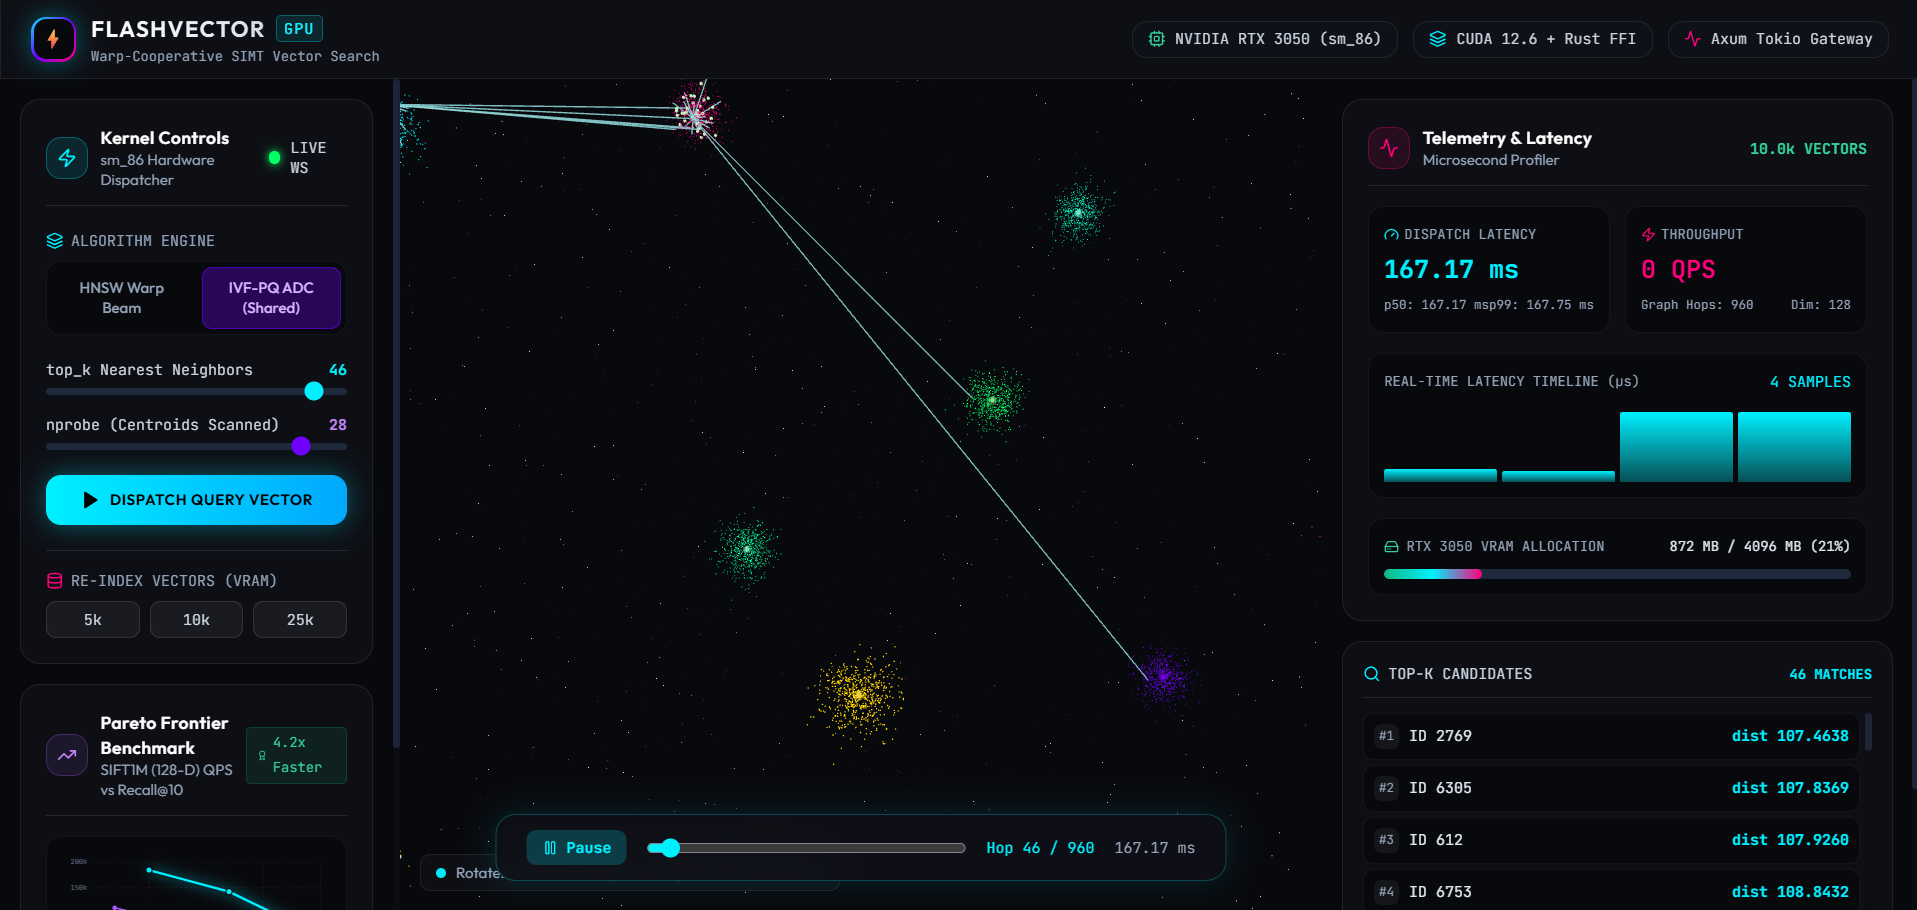
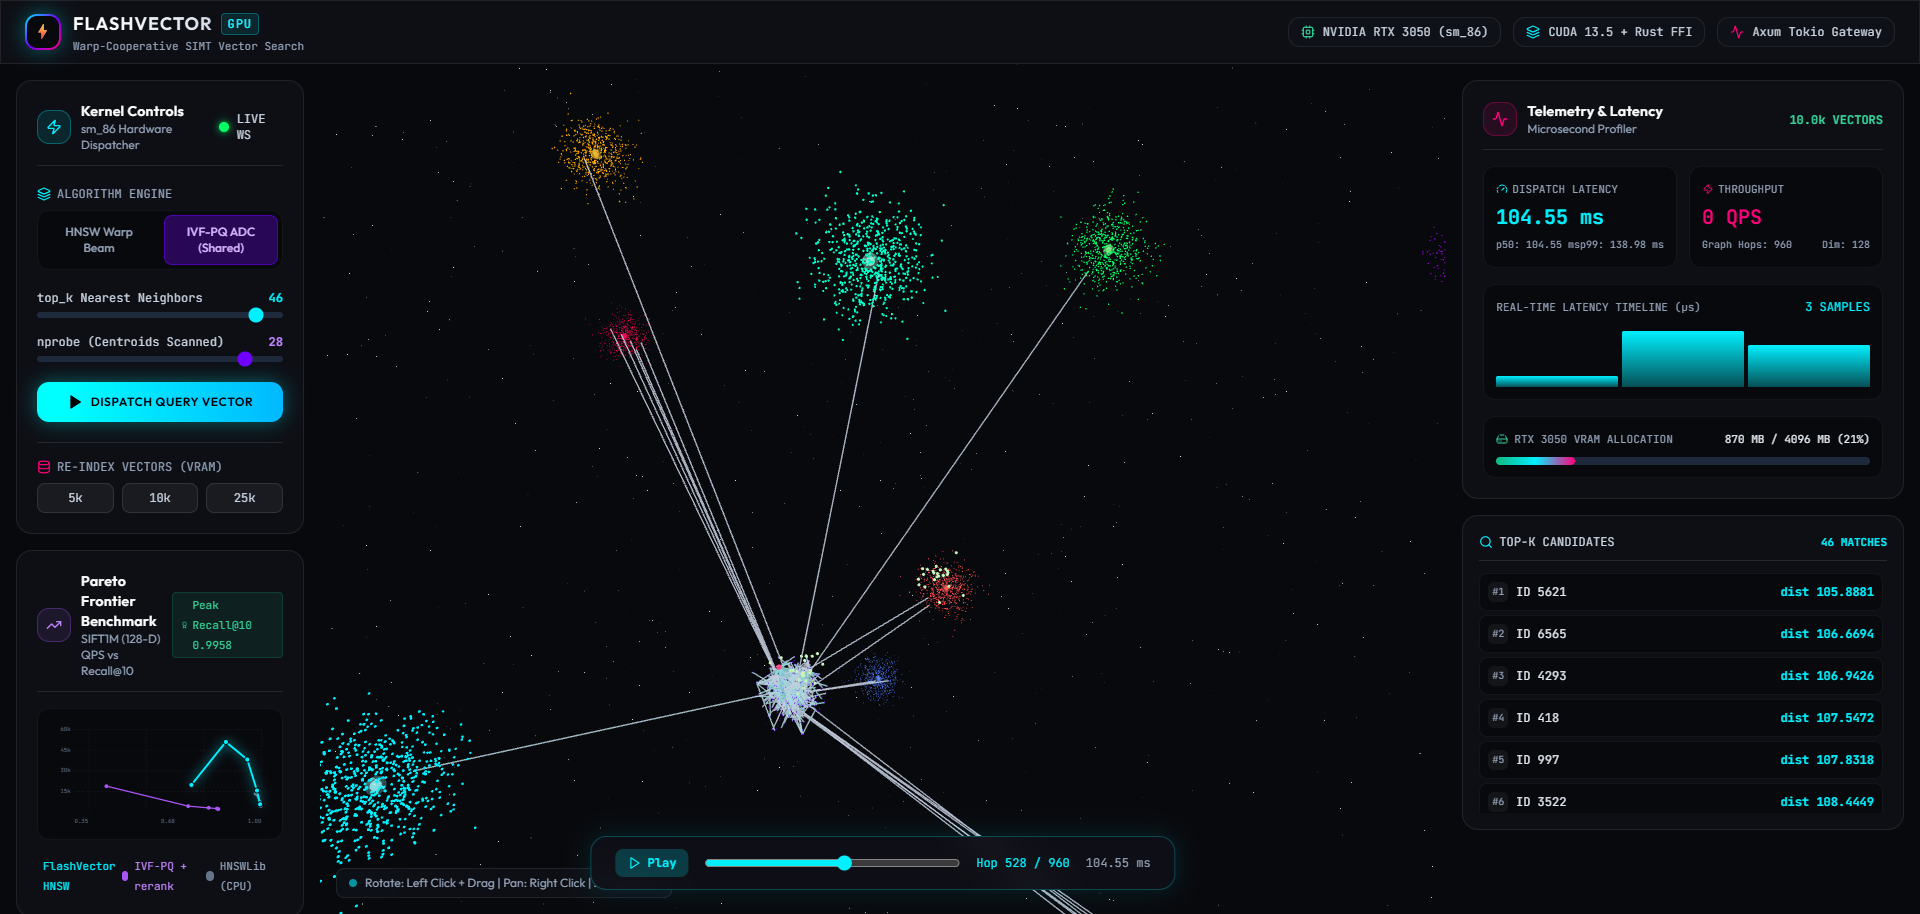
docs: refresh visualizer screenshots and captions
Recapture both screenshots from the running Studio against the current build so
they show the measured benchmark data and the corrected telemetry instead of
the previous "4.2x Faster" badge and stale chart.

Figure 1 shows an HNSW beam search at efSearch=240, top_k=46 over 960 recorded
hops; Figure 2 shows IVF-PQ at nprobe=28 with the probed partitions radiating
from the query. Update both captions and note the shortlist re-scoring step.

The header chip also read "CUDA 12.6" while every validated run used 13.5, so
correct that string too.

diff --git a/web/src/app/page.tsx b/web/src/app/page.tsx
@@ -136,7 +136,7 @@ export default function Dashboard() {
           </div>
           <div className="glass-panel px-3 py-1.5 rounded-xl border border-white/10 flex items-center gap-2">
             <Layers className="w-3.5 h-3.5 text-primary" />
-            <span className="text-slate-300">CUDA 12.6 + Rust FFI</span>
+            <span className="text-slate-300">CUDA 13.5 + Rust FFI</span>
           </div>
           <div className="glass-panel px-3 py-1.5 rounded-xl border border-white/10 flex items-center gap-2">
             <Activity className="w-3.5 h-3.5 text-accent" />

diff --git a/README.md b/README.md
@@ -12,11 +12,11 @@ FlashVector-GPU includes an interactive Three.js/WebGL visualizer backed by an A
 
 ### 1. Warp-Cooperative HNSW Graph Beam Search
 ![FlashVector-GPU HNSW Warp Beam Traversal](assets/visualizer_hnsw_beam.png)
-*Figure 1: Real-time HNSW beam search routing across 10,000 vectors with `efSearch = 112`, tracing animated 3D traversal rays from the entry point to the top-k nearest neighbors.*
+*Figure 1: Real-time HNSW beam search routing across 10,000 vectors with `efSearch = 240` and `top_k = 46`, tracing animated 3D traversal rays across 960 recorded hops from the entry point to the top-k nearest neighbors.*
 
 ### 2. IVF-PQ Dynamic Shared-Memory ADC Lookup
 ![FlashVector-GPU IVF-PQ ADC Search](assets/visualizer_ivf_pq.png)
-*Figure 2: IVF-PQ asymmetric distance computation scanning probed Voronoi centroids and decompressing quantized vector codes in dynamic shared memory.*
+*Figure 2: IVF-PQ asymmetric distance computation with `nprobe = 28`, scoring probed Voronoi partitions and decompressing quantized vector codes in dynamic shared memory, then re-scoring the shortlist against full-precision vectors.*
 
 ---
 
